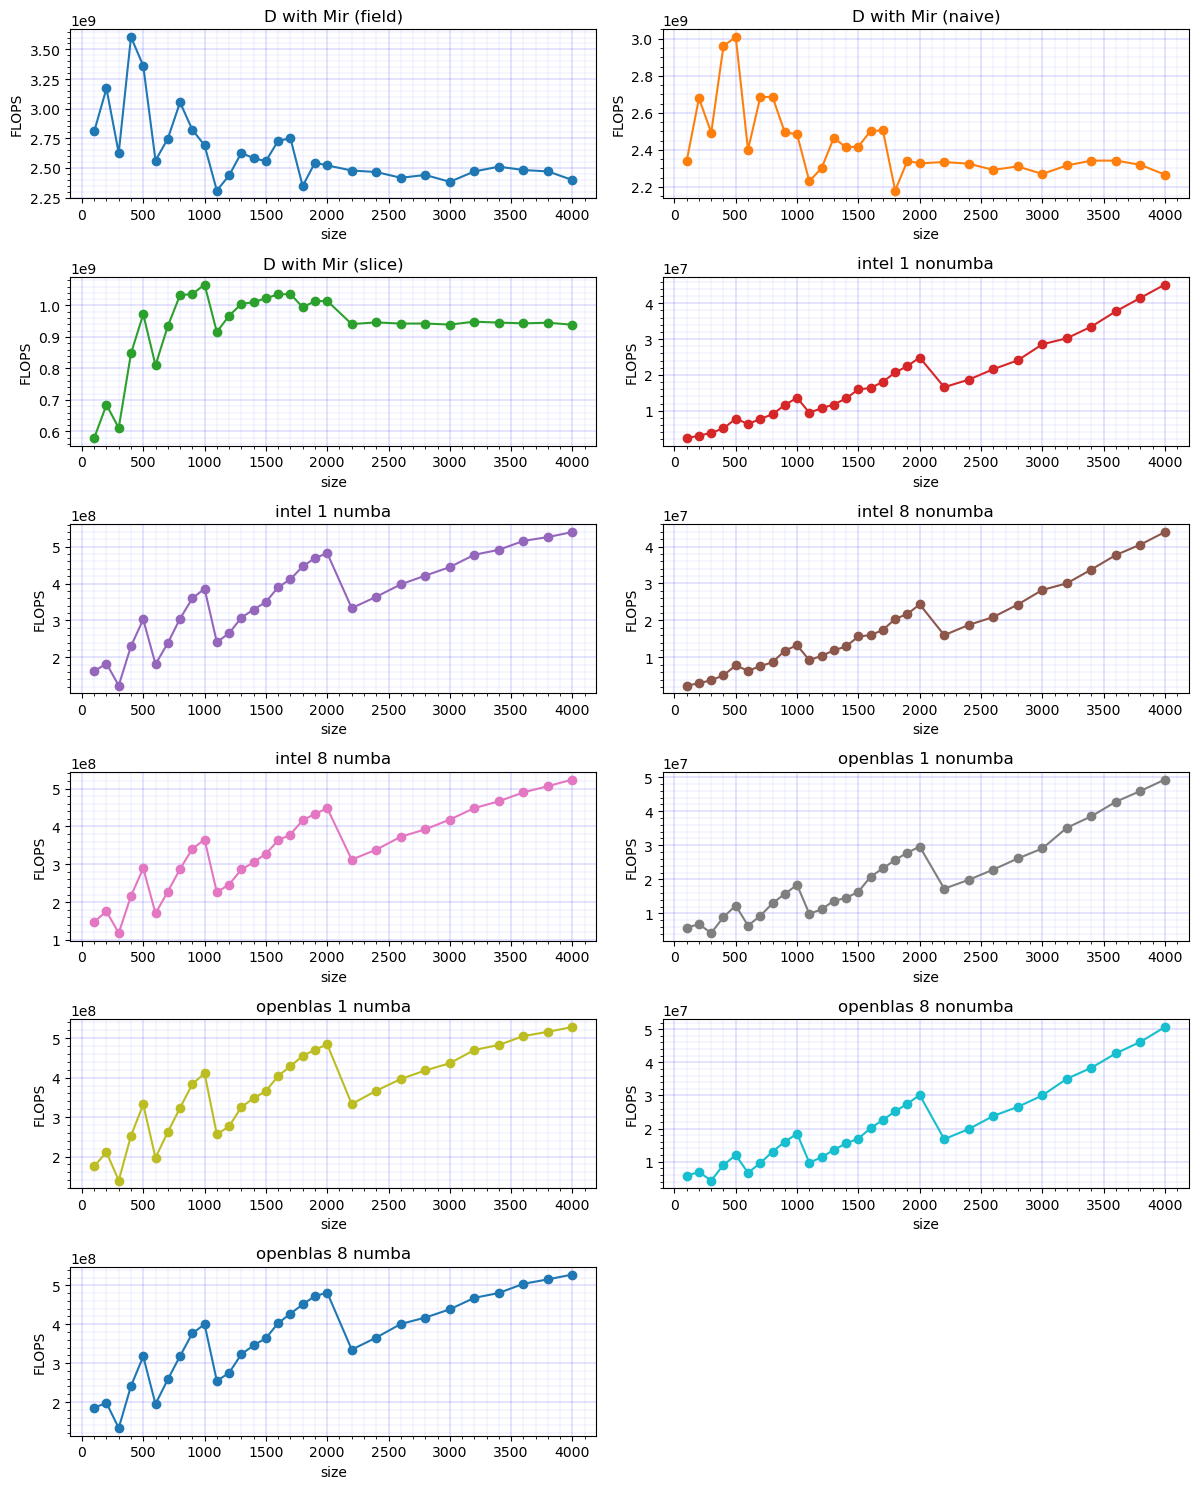
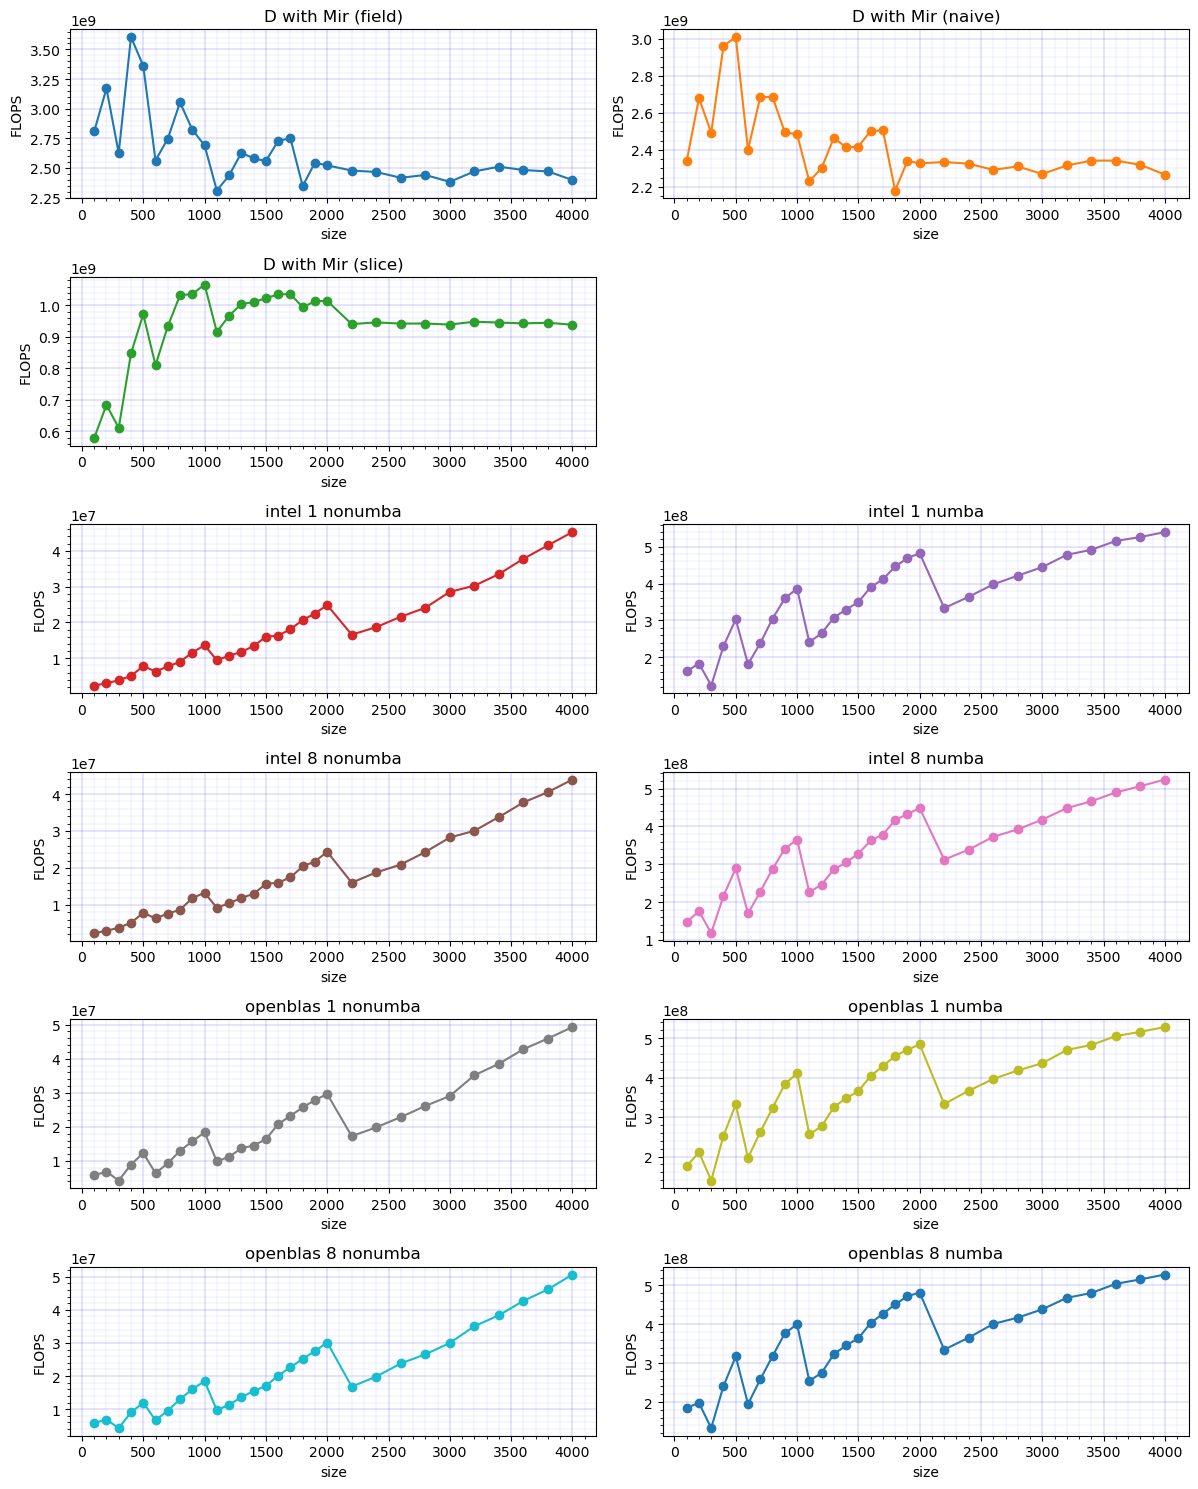
changed order in single graph picture

diff --git a/scripts/data.py b/scripts/data.py
@@ -75,12 +75,13 @@ def subplots(frames, base_path, column):
     fig, axes = plt.subplots((len(frames) + 1) // 2,
                              2,
                              figsize=(12, 15))
-    if len(frames) < len(axes.flat):
-        axes.flat[-1].axis('off')
+    overflow = len(frames) < len(axes.flat)
+    if overflow:
+        axes.flat[3].axis('off')
 
     for i, frame in enumerate(frames):
         name, df = frame
-        axe = axes.flat[i]
+        axe = overflow and axes.flat[i] if i < 3 else axes.flat[i + 1]
         g = df.groupby('size').median()[column]
         g.plot(label=name, ax=axe, marker='o', color=next(color))
         axe.grid(
